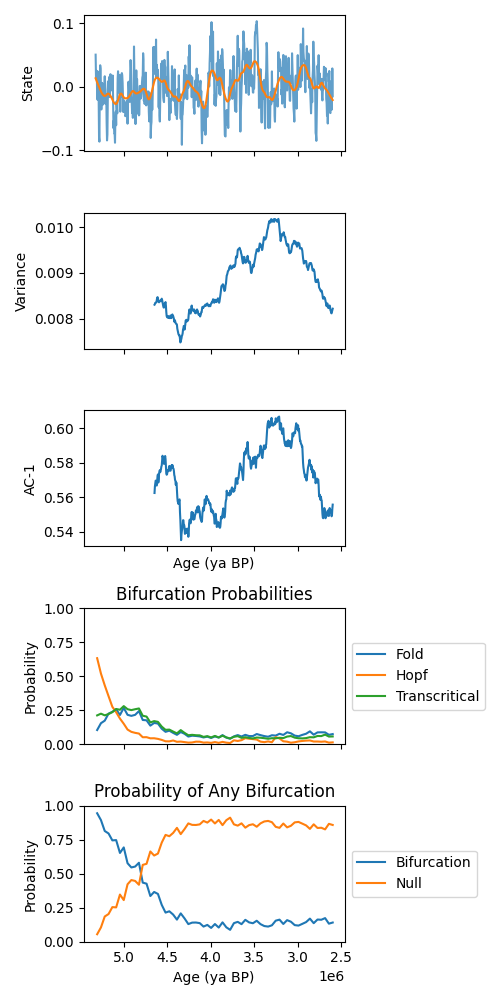
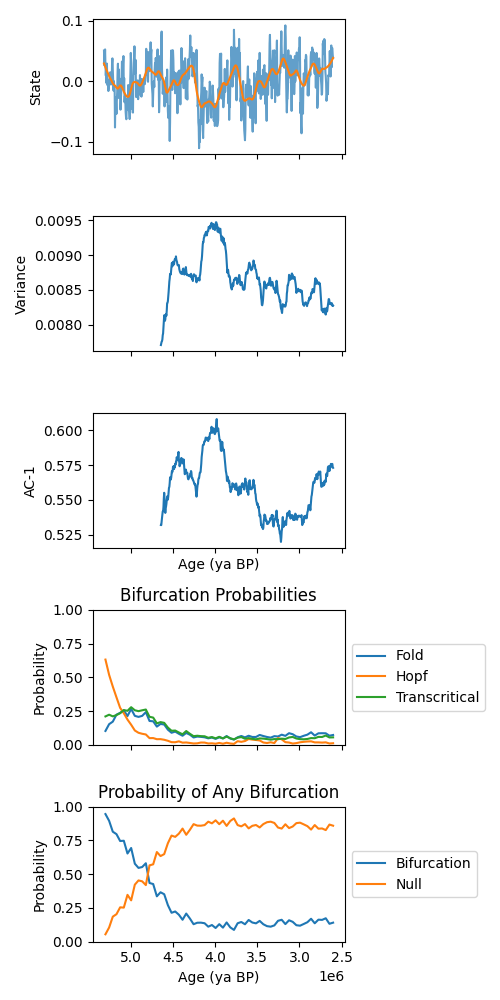
Fix age plots and generator/training making NaNs

diff --git a/src/lstm/train.py b/src/lstm/train.py
@@ -26,7 +26,7 @@ os.environ['TF_CPP_MIN_LOG_LEVEL'] = '3'
 from keras.models import load_model, Sequential
 from keras.layers import Dropout, Conv1D, MaxPooling1D, Dense, LSTM, Input
 from keras.optimizers import Adam
-from keras.callbacks import ModelCheckpoint
+from keras.callbacks import ModelCheckpoint, TerminateOnNaN
 from keras.losses import SparseCategoricalCrossentropy
 
 from sklearn.metrics import accuracy_score, f1_score, confusion_matrix, precision_score, recall_score, classification_report
@@ -60,11 +60,15 @@ def train(
     
     residualize = make_fast_lowess_residualizer(np.arange(0, ts_len))
     
-    def to_traindata(tsid: int) -> np.ndarray[tuple[int], np.dtype[np.float64]]:
-        resids = residualize(sims[tsid])
+    def to_traindata(tsid: int) -> np.ndarray[tuple[int], np.dtype[np.float32]]:
+        resids = np.array(residualize(sims[tsid]), dtype=np.float32, copy=True)
         
         if len(resids) == 0:
             return resids 
+
+        bad_values = ~np.isfinite(resids)
+        if bad_values.any():
+            resids[bad_values] = 0.0
         
         # Padding and normalizing input sequences
         left_padding = int(pad_left * random.random())
@@ -74,16 +78,14 @@ def train(
         if right_padding > 0:
             resids[-right_padding:] = 0
         
-        nonzero: np.ndarray[tuple[int], np.dtype[np.bool]] = resids != 0.0
-        nz_resids = resids[nonzero]
-        if not nonzero.any() or len(nz_resids) == 0:
-            return resids
-        
-        avg = np.mean(np.abs(nz_resids))
+        nonzero: np.ndarray[tuple[int], np.dtype[np.bool_]] = resids != 0.0
+        avg = np.mean(np.abs(resids[nonzero])) if nonzero.any() else 1.0
         if not np.isfinite(avg) or avg == 0:
-            return resids
+            avg = 1.0
         
-        return resids / avg 
+        resids = resids / avg
+        resids[~np.isfinite(resids)] = 0.0
+        return resids.astype(np.float32, copy=False)
     
     os.makedirs(output, exist_ok=True)
 
@@ -118,7 +120,7 @@ def train(
         ids = sequence_ids_for(dataset_id)
         if len(ids) == 0:
             return np.empty((0, ts_len, 1), dtype=np.float32)
-        return np.stack([prepared[tsid] for tsid in ids]).reshape(len(ids), ts_len, 1)
+        return np.stack([prepared[tsid] for tsid in ids]).reshape(len(ids), ts_len, 1).astype(np.float32, copy=False)
     
     train = labelled_seq(1)
     validation = labelled_seq(2)
@@ -130,6 +132,16 @@ def train(
     train_target = labelled_class_seq(1)
     validation_target = labelled_class_seq(2)
     test_target = labelled_class_seq(3)
+
+    def assert_finite_split(split_name: str, values: np.ndarray) -> None:
+        finite = np.isfinite(values)
+        if not finite.all():
+            bad_count = values.size - int(finite.sum())
+            raise ValueError(f"{split_name} contains {bad_count} NaN or Inf values after preprocessing")
+
+    assert_finite_split("Training data", train)
+    assert_finite_split("Validation data", validation)
+    assert_finite_split("Test data", test)
     
     print("Loading or compiling model...")
     
@@ -142,10 +154,23 @@ def train(
             metrics=['accuracy', 'sparse_categorical_accuracy']
         )
 
+    def assert_finite_model_weights(model: Sequential, model_path: str) -> None:
+        bad_count = 0
+        for weights in model.get_weights():
+            finite = np.isfinite(weights)
+            if not finite.all():
+                bad_count += weights.size - int(finite.sum())
+        if bad_count != 0:
+            raise ValueError(
+                f"Existing model checkpoint at {model_path} contains {bad_count} NaN or Inf weights. "
+                "Remove it or train with a new --name so training starts from a fresh model."
+            )
+
     checkpoint_initial_value: float | None = None
     if os.path.exists(model_path):
         print(f"Loading existing model checkpoint from {model_path}...")
         model: Sequential = load_model(model_path) # type: ignore[assignment]
+        assert_finite_model_weights(model, model_path)
 
         input_shape = getattr(model, "input_shape", None)
         if input_shape is not None and tuple(input_shape[1:]) != (ts_len, 1):
@@ -197,6 +222,7 @@ def train(
         epochs=epochs,
         batch_size=batch_size,
         callbacks=[
+            TerminateOnNaN(),
             ModelCheckpoint(
                 model_path,
                 monitor="val_accuracy",
@@ -213,6 +239,7 @@ def train(
     print("Loading best model checkpoint...")
 
     model: Sequential = load_model(model_path) # type: ignore[assignment]
+    assert_finite_model_weights(model, model_path)
     
     print("Testing model...")
     

diff --git a/src/lstm/generate.py b/src/lstm/generate.py
@@ -128,6 +128,10 @@ _ModelOutput: TypeAlias = list[_Simulation]
 _2DArray: TypeAlias = np.ndarray[tuple[Literal[2]], np.dtype[np.float64]]
 
 
+def _is_valid_training_sim(sim: Sims, ts_len: int) -> bool:
+    return len(sim) == ts_len and not bool(sim.isna().any())
+
+
 def _needs_sample(counts: Counts, bif_type: BifType, bif_max: int) -> bool:
     return counts.count(bif_type) < bif_maximum(type=bif_type, bif_max=bif_max)
 
@@ -479,16 +483,19 @@ def _simulate(
                 
                 if transit_pos + 1 >= ts_len:
                     start = transit_pos + 1 - ts_len
-                    sims.append((
-                        # Simulations
-                        pd.Series(sim.iloc[start:transit_pos + 1], index=pd.Index(np.arange(ts_len), name="time")),
-                        # Label
-                        bif_type,
-                    ))
-                    
-                    if not null_run and null:
-                        null_run = True
-                        break
+                    sim = sim.iloc[start:transit_pos + 1].copy()
+                    sim.index = pd.Index(np.arange(len(sim)), name="time")
+                    if _is_valid_training_sim(sim, ts_len):
+                        sims.append((
+                            # Simulations
+                            sim,
+                            # Label
+                            bif_type,
+                        ))
+                        
+                        if not null_run and null:
+                            null_run = True
+                            break
     
                 
     return sims
@@ -556,6 +563,7 @@ def batch(
     
     simulations: _Simulations = dict()
     counts = _AtomicCounts()
+    skipped_existing = 0
     
     # Continue from previous state
     label_file = None
@@ -579,6 +587,10 @@ def batch(
                     
                     if len(sim) != ts_len:
                         raise RuntimeError(f"Batch {batch_num} loaded simulation {seq_id} with non-matching length {len(sim)}! (expected {ts_len})")
+
+                    if not _is_valid_training_sim(sim, ts_len):
+                        skipped_existing += 1
+                        continue
                     
                     simulations[seq_id] = (sim, biftype)
                     counts.inc(biftype)
@@ -589,6 +601,8 @@ def batch(
             traceback.print_exception(e)
             
     print("Batch", batch_num, "loaded", len(simulations), "previous simulations")
+    if skipped_existing != 0:
+        print("Batch", batch_num, "skipped", skipped_existing, "existing simulations containing NaN values")
     
     current = max(simulations.keys()) + 1 if len(simulations) != 0 else 1
     if param_jobs is None:
@@ -604,9 +618,9 @@ def batch(
             param_jobs=param_jobs,
         ):
             for result in results:
-                biftype = result[1]
+                sim, biftype = result
                 already_added = any((t, True) in added for t in BIFS) if biftype[1] else biftype in added
-                if _needs_sample(counts, biftype, bif_max) and not already_added:
+                if _needs_sample(counts, biftype, bif_max) and not already_added and _is_valid_training_sim(sim, ts_len):
                     simulations[current] = result
                     counts.inc(biftype)
                     added.add(biftype)

diff --git a/src/lstm/test.py b/src/lstm/test.py
@@ -25,10 +25,12 @@ class TestModel(metaclass = abc.ABCMeta):
     def __init__(
         self: Self,
         name: str,
+        age_format: str,
         window: float | int = 0.25,
         sims: int = 10,
     ):
         self.name = name
+        self.age_format = age_format
         self.sims = sims
         self.window = window
         
@@ -115,6 +117,7 @@ class SimModel(TestModel):
         super().__init__(
             name = name,
             sims = sims,
+            age_format="Timesteps before present"
         )
         
         self.de_fun = de_fun
@@ -188,7 +191,7 @@ class SimModel(TestModel):
             
         df = pd.concat([
                     series.to_frame(name="state"), 
-                    compute_residuals(series)
+                    compute_residuals(series, span=0.2)
                     ], axis=1)
             
         self.add_indices(df, forced, tsid)
@@ -291,6 +294,7 @@ class DatasetModel(TestModel):
             name=dataset.name,
             window=window,
             sims=sims,
+            age_format="Age (years before present)"
         )
 
         # Get times prior to transition (in years ago)
@@ -596,7 +600,7 @@ def plot_metrics(model: TestModel, kind: str, sims: pd.DataFrame, metrics: pd.Da
         axis.set_xbound(-0.01, 1)
         axis.set_ylabel("True positive rate") 
         axis.set_aspect('equal', adjustable='box')
-        axis.set_title(f"Window of {start * 100}% - {end * 100}% of data)")
+        axis.set_title(f"Window of {start * 100}% - {end * 100}% of data")
                    
     # fig.suptitle()
     # fig.tight_layout()
@@ -627,7 +631,7 @@ def plot_metrics(model: TestModel, kind: str, sims: pd.DataFrame, metrics: pd.Da
         axes[0].plot(time, means["state"], alpha = 0.7)
         axes[0].plot(time, means["state"] - means["residuals"])
         axes[0].set_ylabel("State")
-        Metrics.plot(axes[1:3], means, transitions=[time[-1]] if forced else [])
+        Metrics.plot(axes[1:3], means, transitions=[time[-1]] if forced else [], age=model.age_format)
     
     if lstm is not None:
         for forced, df in metrics.groupby("forced", dropna=False):
@@ -639,6 +643,7 @@ def plot_metrics(model: TestModel, kind: str, sims: pd.DataFrame, metrics: pd.Da
                 axes = axes[3:5],
                 means = means,
                 transitions=[means.index.get_level_values("time")[-1]] if forced else [],
+                age=model.age_format,
             )
             
     forced_fig.tight_layout()

diff --git a/src/lstm/__init__.py b/src/lstm/__init__.py
@@ -221,12 +221,12 @@ class LSTM(Model[pd.DataFrame]):
         self.results[dataset] = pd.concat(map(compute, dataset.df.columns))
         
     @staticmethod                
-    def plot(axes: Sequence[Axes], means: pd.DataFrame, transitions: Iterable[int | float] = []):
+    def plot(axes: Sequence[Axes], means: pd.DataFrame, transitions: Iterable[int | float] = [], age: str ="Age (ya BP)"):
         
         last_ax = axes[-1]
         means_ax = axes[-2]
         
-        last_ax.set_xlabel("Age (ya BP)")
+        last_ax.set_xlabel(age)
         
         time = np.abs(time_index(means.index))
         
@@ -256,10 +256,8 @@ class LSTM(Model[pd.DataFrame]):
             loc="center left",
             bbox_to_anchor=(1, 0.5)
         )
-        
 
-
-    def _plot(self: Self, dataset: Dataset, title: bool = True, transitions: Iterable[int | float] = []) -> Figure:
+    def _plot(self: Self, dataset: Dataset, title: bool = True, transitions: Iterable[int | float] = [], age: str = "Age (ya BP)") -> Figure:
         
         preds = self.results[dataset]
         
@@ -285,7 +283,7 @@ class LSTM(Model[pd.DataFrame]):
             for i, col in enumerate(__class__.COLUMNS[:-1]): # All besides null column
                 ax = axes[i]
                 ax.set_title(f"{col} Probability")
-                ax.set_xlabel("Age (ya BP)")
+                ax.set_xlabel(age)
                 ax.set_ylabel("Probability")
                 for feature, data in preds.groupby("variable"): # type: ignore 
                     ax.plot(np.abs(time_index(data.index)), data[col].to_numpy(), label=str(feature))

diff --git a/src/metrics.py b/src/metrics.py
@@ -104,11 +104,11 @@ class Metrics(Model[pd.DataFrame]):
         return fig
     
     @staticmethod
-    def plot(axs: Sequence[Axes], df: pd.DataFrame, transitions: Iterable[int | float] = []):
+    def plot(axs: Sequence[Axes], df: pd.DataFrame, transitions: Iterable[int | float] = [], age: str = "Age (ya BP)"):
         
         time = np.abs(time_index(df.index))
         
-        axs[-1].set_xlabel(f"Age (ya BP)")
+        axs[-1].set_xlabel(age)
 
         def plot(ax: Axes, data: pd.Series, title: str):
             ax.set_ylabel(title)
